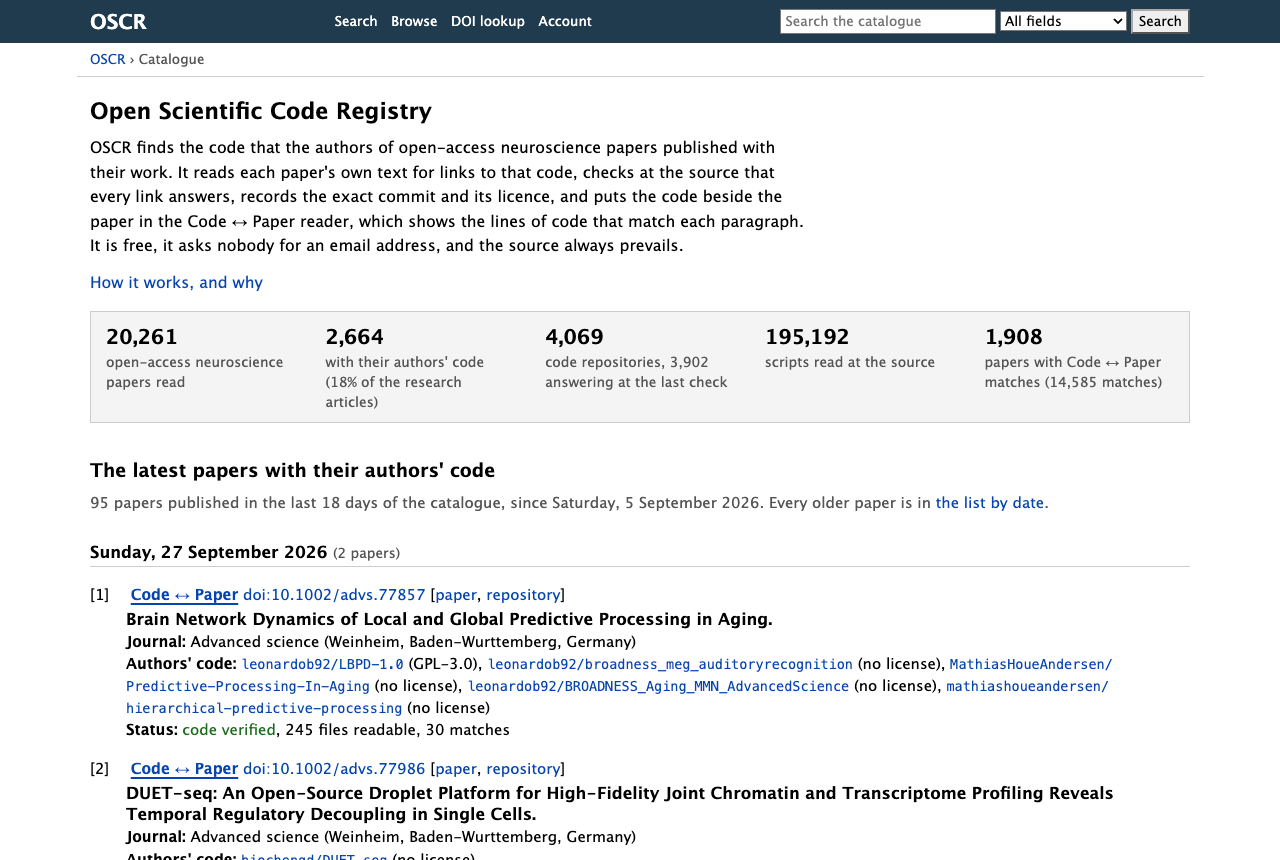
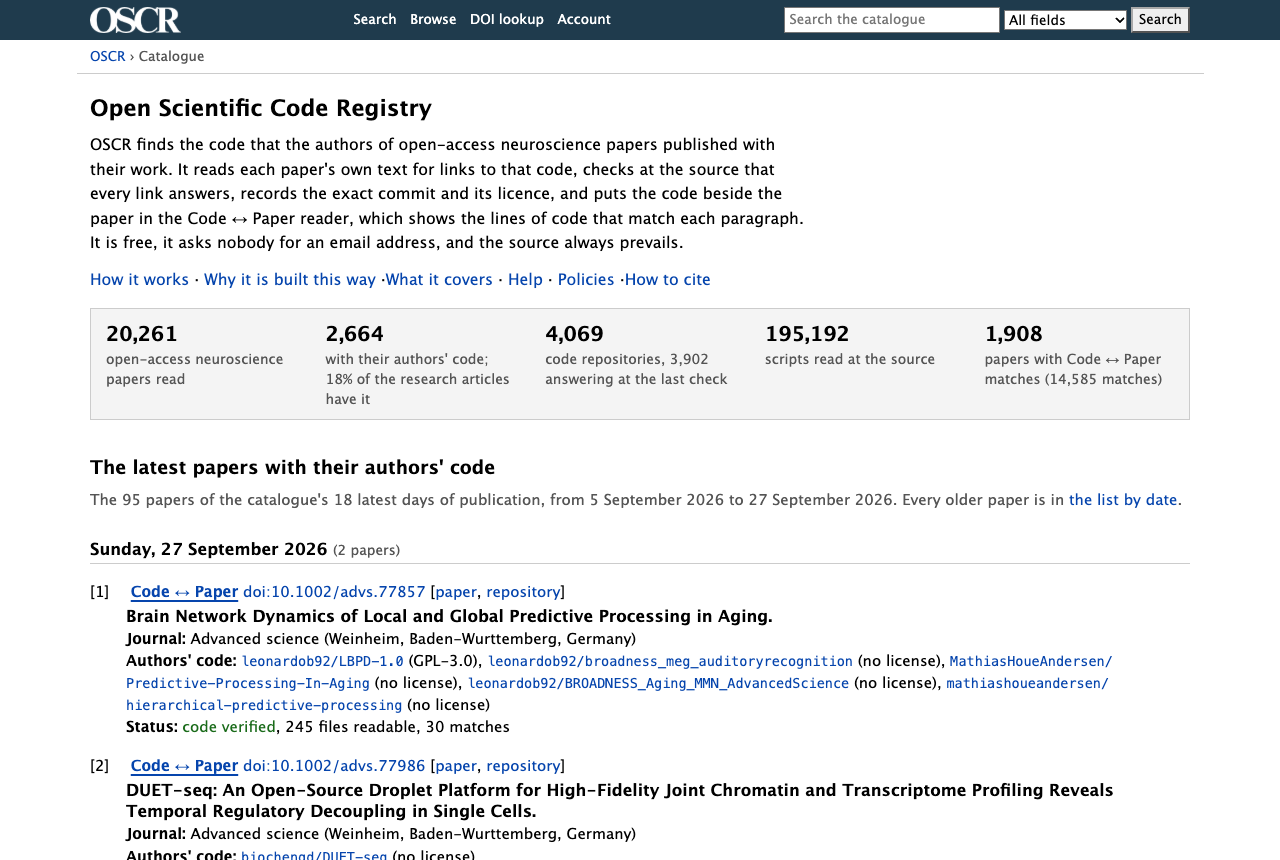
Docs, screenshots and phone fixes for the launch pages
CLAUDE.md gets an "Information pages" note in its style (the pages and their menus, only what is
true, the footer, OPERATOR_NAME and OPERATOR_ADDRESS and their launch warning, privacy kept in step
with what is held, the other branch's two policies through pageExists, the home page and /list/, the
sitemap, the headers) and the file budget's new bounds. docs/ARCHITECTURE.md: the routes (/, /list/,
the information pages, the sitemap and robots.txt), the headers and why HSTS has neither
includeSubDomains nor preload, the budget (FIXED_FILES_MAX 3,500; every paper reachable). docs/
PLATFORM_PLAN.md §6: the launch's measurements on the real catalogue — the home page from 3.5 MB of
HTML (535 KB gzipped) to 97 KB (16 KB gzipped); 7,164 files before, 7,249 after.

On a phone, an information page no longer scrolls sideways: its column is stretched to the screen
(a flex column's items took the width of their widest <pre>), a table scrolls inside its frame, and
a long key or address in a table wraps. Screenshots of every new page at 1280 × 860 and 390 × 844,
and of the home page before and after, from the real catalogue (docs/screenshots/launch-site/).

diff --git a/website/src/styles/science.css b/website/src/styles/science.css
@@ -518,9 +518,12 @@ dl.index dd { margin: .15em 0 0; color: var(--muted); }
 table.facts { border-collapse: collapse; width: 100%; font-size: .94em; }
 table.facts th, table.facts td { padding: .35em .6em; border-bottom: 1px solid var(--rule); text-align: left; vertical-align: top; }
 table.facts thead th { background: var(--bg-sidebar); border-bottom-color: #aaa; }
-table.facts td.n, table.facts th.n { text-align: right; white-space: nowrap; }
+table.facts td, table.facts th { overflow-wrap: anywhere; }
+table.facts td.n, table.facts th.n { text-align: right; overflow-wrap: normal; }
 @media (max-width: 800px) {
-  .info { flex-direction: column; gap: 1em; }
+  /* Stretched to the column: a <pre> or a table scrolls inside it, never the page. */
+  .info { flex-direction: column; gap: 1em; align-items: stretch; }
+  .info-body { width: 100%; }
   .info-menu {
     order: 0; position: static; width: 100%; box-sizing: border-box;
     padding: .4em 0 0; border-right: 0; border-top: 1px solid var(--rule);

diff --git a/docs/ARCHITECTURE.md b/docs/ARCHITECTURE.md
@@ -138,7 +138,8 @@ the number of files must not grow with the catalogue: how each kind of page is r
 
 | route | what it shows | from the export | rendered |
 |---|---|---|---|
-| `/` | the papers with their authors' code, by day of publication | `catalog.json` | static |
+| `/` | what the registry is and its figures, then the latest days of publication, whole, up to `HOME_PAPERS` (100) papers with their authors' code (2026-09-29: it held every paper, 3.5 MB of HTML; now ~97 KB) | `catalog.json` | static |
+| `/list/`, `/list/<n>/` | every paper with a page, by day, the most recent first, 100 a page, `LIST_PAGES_MAX` (200) pages at most (past 20,000 papers the pages grow, not their number); the first page lists every page with its dates | `catalog.json` | static |
 | `/paper/<slug>/` | a paper with code, code on request or data only (decision D2), in sections: Overview, Code, Map, Data, Versions, Cite, Similar (and Discussion, Reproductions, Activity, which open with sign-in); see "The paper's page" below | `catalog.json`, `entities/`, `papers/` | static for the 6,000 most recent (`STATIC_PAPERS`); the others by the Worker, a reduced page |
 | `/paper/<slug>/code/` | the Code ↔ Paper reader, for the papers with code | `catalog.json`, `alignments/`, `scripts/` | static with its paper; past them, the Worker sends it to `/paper/<slug>/#code` |
 | `/browse/` | the categories by facet, with their counts; the other ways in | `entities/categories.json` | static |
@@ -151,7 +152,8 @@ the number of files must not grow with the catalogue: how each kind of page is r
 | `/lookup/` | the DOI lookup: any paper read, with or without a page | `lookup/NN.json` | static page; the browser fetches one of 256 shards |
 | `/search/` | the search (Phase 3): a static page and a Svelte island that asks `/api/search` only when a search is submitted | D1, through the Worker | static + Worker |
 | `/account/` | sign-in, the linked identities, the roles, "your papers", the maintainer claim form (Phase 5) | nothing: the page asks `/api/account/me` | static + Worker |
-| `/about/` | what the registry is, and what it never publishes | — | static |
+| `/about/`, `/help/` (and 13 guides), `/policies/` (and 8 policies), `/privacy/`, `/brand/`, `/labs/`, `/taxonomy/` | the information pages (2026-09-29), on the model of arXiv's: the mission and how it works, the guides, the policies, every personal datum held, the name and the logo, the open data and what is in development, the scope and the categories with their definitions and counts; a footer on every page links to them | `catalog.json`, `entities/`, `papers/` (the taxonomy's topics), `oscr/vocabulary/categories.json` | static |
+| `/sitemap.xml`, `/sitemaps/NN.xml`, `/robots.txt` | the sitemap's index and its shards (every indexable page: the fixed pages, the list, the categories, every paper with a page, every entity; 50,000 addresses a shard, `SITEMAP_SHARDS` (32) at most); robots.txt keeps robots off `/api/` and the search's results, which cost Worker requests | the same | static |
 
 - **Who counts.** `oscr/entities.py` counts only the papers with a page (D2): the authors'
   code (verified, found, empty, dead), code on request, data only. An off-topic paper appears
@@ -166,6 +168,29 @@ the number of files must not grow with the catalogue: how each kind of page is r
   every internal link (the links held by the records included, and the entities behind the
   rewrites), that each record is in the shard its key names, and the file budget; it prints the
   number of files folder by folder.
+
+### Headers (2026-09-29)
+
+`website/public/_headers` begins with a block for every file (`/*`): `X-Content-Type-Options:
+nosniff`, `Referrer-Policy: same-origin`, a `Permissions-Policy` that turns off the camera, the
+microphone, place, payment, sensors, USB and topics, `X-Frame-Options: DENY`, a strict
+`Content-Security-Policy` (this site's files only) and `Strict-Transport-Security: max-age=31536000`.
+
+- **Why no `includeSubDomains` or `preload`**: on `workers.dev` the header changes nothing (`.dev` is
+  a TLD every browser holds to HTTPS); on the custom domain planned before the launch (D8),
+  `includeSubDomains` would force HTTPS on every name under it, and `preload` would write that into the
+  browsers' lists, slow to undo. Both are the owner's to decide once the domain is known.
+- **How the rules combine**: Workers static assets apply every rule that matches, in the file's order;
+  a header two rules set is joined with a comma, and `! Name` removes what an earlier rule set (the
+  asset worker's `attachCustomHeaders`: removals, then sets, rule by rule). Two policies would both
+  apply, the stricter winning: so the pages with their own (the account, `/submit/`, `/removal/`, a
+  paper's page, the search's hashed island scripts) remove the site's first. `/_astro/*` keeps no
+  policy: a web worker takes its script's, and the reader's highlighter runs in one. Checked with
+  `wrangler dev`.
+- **The Worker's pages** (an older paper, the 404 page) get the same from `worker/pages.ts`
+  (`SITE_HEADERS`, `PAPER_HEADERS` over them), tested against the file (`src/lib/headers.ts` reads
+  `_headers` as the assets apply it). `npm run check` hashes every inline script and style of every
+  page and fails when its policy refuses one, naming the hash to add.
 
 ## How pages are rendered, and the file budget
 
@@ -183,10 +208,16 @@ catalogue's listing of the static pages is its too).
 | the DOI lookup | 256 `/lookup/NN.json` | the page's script fetches one shard | 0 |
 | an address no file answers | — | the Worker serves `404.html` with the status 404 | 1 |
 
-- **The budget holds whatever the catalogue's size**: at most 2 × 6,000 files of papers, and
-  `FIXED_FILES_MAX` (3,000) for everything else — the 2,304 record shards, 256 lookup shards, 128
-  lots of scripts, the category pages (`MAX_CATEGORIES`, 200) and the fixed pages and bundles. The
-  two add up to the check's margin, 15,000, under the 20,000 limit. `npm run check` prints the
+- **The budget holds whatever the catalogue's size**: at most 6,000 files of papers (one each since
+  the reader is on the paper's page; two before), and `FIXED_FILES_MAX` (3,500 since 2026-09-29) for
+  everything else — the 2,304 record shards, 256 lookup shards, 256 lots of scripts, the category pages
+  (`MAX_CATEGORIES`, 200), the list by date (`LIST_PAGES_MAX`, 200), the sitemap's shards
+  (`SITEMAP_SHARDS`, 32), the information pages, the brand's files and the bundles: 9,500 at most,
+  under the check's margin of 15,000 and the 20,000 limit.
+- **Every paper is reachable**: the check fails when a paper with a page is linked from no static
+  page (the list by date links to all of them) or is missing from the sitemap. Measured on the real
+  catalogue (2026-09-29): 46 list pages, one sitemap shard (27,544 addresses); 2,695 files besides the
+  papers' 4,554, 7,249 in all. `npm run check` prints the
   files folder by folder and fails past either; `npm run check:growth` (in CI) builds the fixture,
   then the fixture grown with 40,000 authors, 15,000 institutions, 12,000 papers and 150,000 DOIs:
   67 files, then 2,628, only the shards differing.

diff --git a/CLAUDE.md b/CLAUDE.md
@@ -156,7 +156,40 @@ the catalogue's size (`website/src/lib/shards.ts`, held by `npm run check`; docs
   correction, removal request). Every request no file answers runs the Worker
   (`not_found_handling = "none"`), which serves the 404 page itself.
 - **The DOI lookup**: 256 shards (`oscr/entities.py` LOOKUP_HEX, `/lookup/NN.json`).
+- **The lists and the sitemap** (2026-09-29): the list of every paper by date, `/list/` (100 a page,
+  `LIST_PAGES_MAX` = 200 pages at most), and the sitemap's shards (`SITEMAP_SHARDS` = 32 at most) are
+  in `FIXED_FILES_MAX`, raised to 3,500; a paper's page is one file since the reader is on it, so
+  `STATIC_PAPERS` + `FIXED_FILES_MAX` = 9,500 stays under the 15,000 margin.
 - A new kind of page adds a fixed number of files, never one per paper or per entity.
+
+## Information pages (the launch, 2026-09-29)
+
+About, Help (an index and 13 guides), Policies (an index and 8 policies), Privacy, Brand, Labs and
+Taxonomy, on the model of arXiv's info site, in the site's own words (`website/src/pages/`, their
+menus in `website/src/lib/info.ts`, the layout `src/components/Info.astro`):
+
+- **Every statement is true of the code and the docs**: a feature, a number, a partner or a promise
+  that does not exist is never written. What exists only on unmerged branches (the night branches)
+  is named on Labs only, marked "in development". Figures come from the build's export.
+- **A footer on every page** (`Base.astro`): About, Help, Policies, Privacy, Brand, Labs, Taxonomy,
+  Limits, the source. The masthead stays compact, with the owner's logo (`public/brand/`, made by
+  `tools/make_logo_assets.py`; its alt is `SITE_NAME`).
+- **`OPERATOR_NAME` and `OPERATOR_ADDRESS`** (`website/src/config.ts`, next to `SITE_NAME`, or at
+  build time) name the operator on `/privacy/` and `/policies/terms/`. Empty, the pages say that they
+  are published before the launch, and `npm run check` prints a launch warning (never a failure).
+- **Privacy** lists every personal datum, the private collection of authors' contact details
+  included; a change to what the registry keeps changes `/privacy/` in the same commit.
+- `/policies/code/` and `/policies/moderation/` are written with the code reader: the pages link to
+  them through `pageExists` (a link once the page exists, its name until then).
+- **The home page** shows the latest days, whole, up to `HOME_PAPERS` (100) papers with code; every
+  paper with a page is in `/list/` (100 a page, `LIST_PAGES_MAX` pages at most); the sitemap
+  (`/sitemap.xml`, `SITEMAP_SHARDS` shards of 50,000) and `robots.txt` list and guard the rest.
+  `npm run check` fails when a paper with a page is linked from no static page or missing from the
+  sitemap.
+- **Headers**: a site-wide block first in `public/_headers` (nosniff, referrer, permissions, a
+  strict policy, HSTS without `includeSubDomains` or `preload`); a page that needs more removes the
+  site's policy (`! Content-Security-Policy`) and sets its own. `worker/pages.ts` gives its pages the
+  same; `npm run check` holds every inline script and style to its page's policy.
 
 ## The website's style (website/)
 

diff --git a/docs/PLATFORM_PLAN.md b/docs/PLATFORM_PLAN.md
@@ -444,6 +444,16 @@ the fixed pages and bundles): 15,000, the check's margin. `npm run check` fails 
 prints the files folder by folder; `npm run check:growth` (CI) shows that only the shards change
 when the catalogue grows.
 
+**The launch (2026-09-29).** The home page held every paper with code (3.5 MB of HTML, 535 KB
+gzipped, for 2,664 papers under 152 days, on the real catalogue): it now shows whole days of
+publication up to `HOME_PAPERS` (100) papers (97 KB, 16 KB gzipped), and every paper with a page is in
+the list by date, `/list/` and `/list/<n>/`, 100 a page in `LIST_PAGES_MAX` (200) pages at most — 46
+today; past 20,000 papers the pages hold more, their number stays. With the sitemap's shards
+(`SITEMAP_SHARDS`, 32 at most) and some 35 information pages, `FIXED_FILES_MAX` goes from 3,000 to
+3,500; a paper takes one file since the reader is on its page, so the papers' 6,000 and the rest's
+3,500 stay under the 15,000 margin. Measured on the real catalogue: 7,164 files before, 7,249 after
+(2,695 besides the papers; the sitemap, one shard of 27,544 addresses).
+
 **Limits.**
 
 - Every miss runs the Worker: robots probing addresses spend requests that were free before. The
